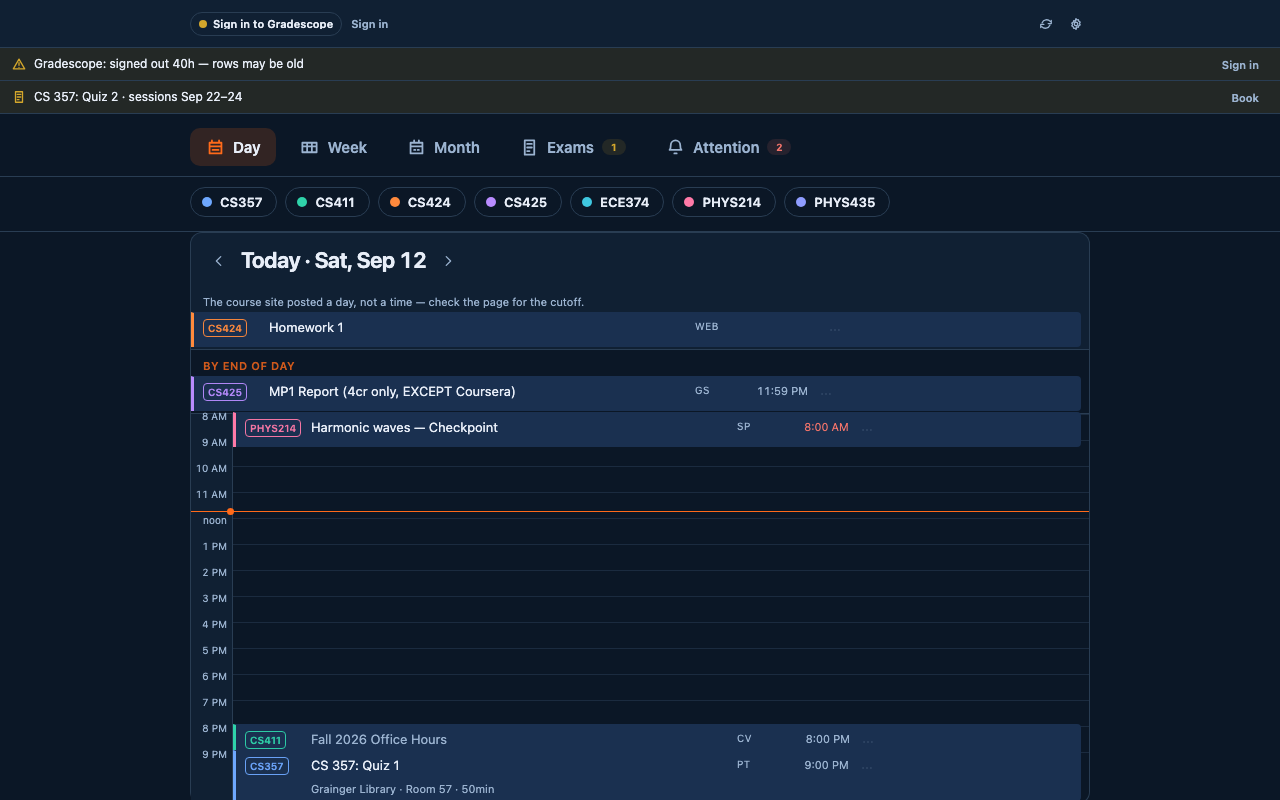
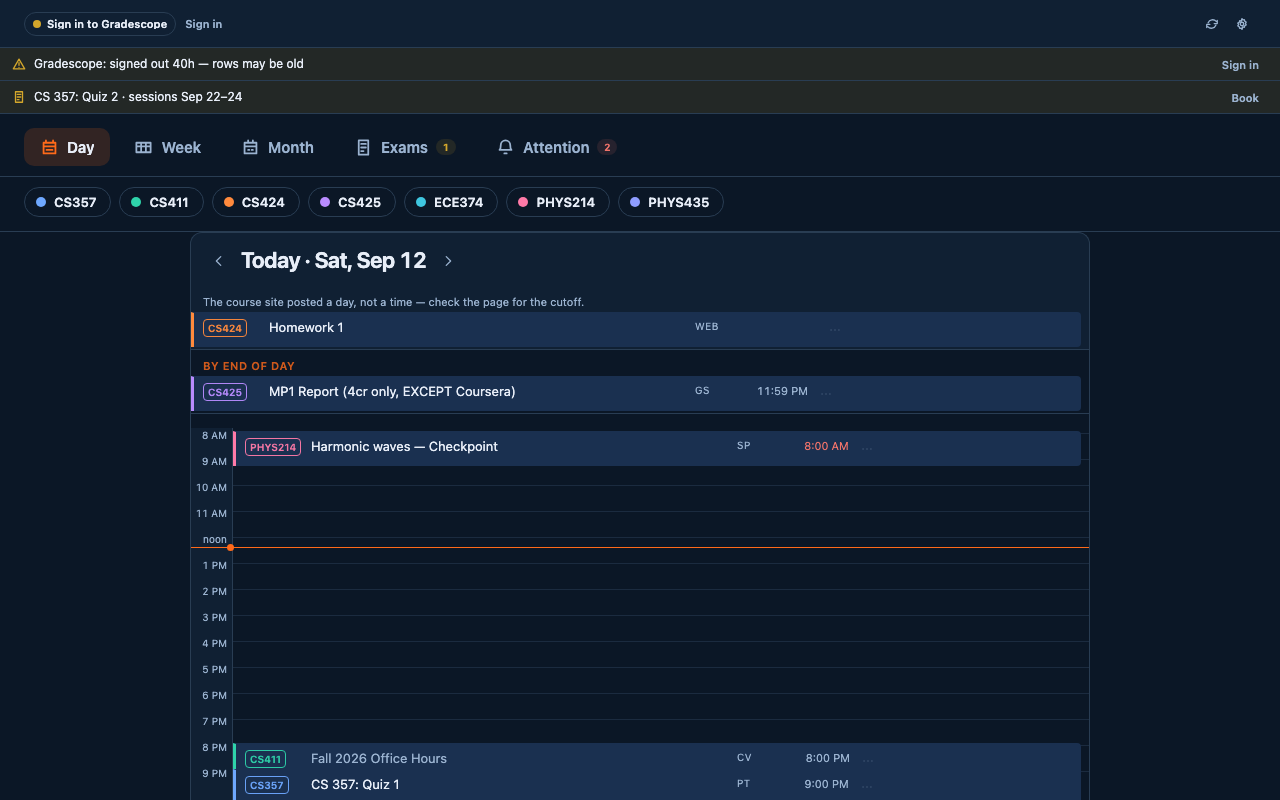
Give the hour axis room above it
"8 AM" was touching the 11:59 PM row above it. Measured: the end-of-day band
ended at y=411 and the grid started at y=414 — three pixels — while the first
hour label started at y=409, five pixels above the grid and two pixels inside
the last end-of-day row.

Every hour label is shifted up 5px so it straddles its own gridline, which is
what makes an axis read as an axis. The first label has no line above it to
straddle, so those 5px put it outside the grid entirely and on top of whatever
band was there. The grid takes 5px of top padding to hold it in, the gutter
takes an equal negative margin so its tint still reaches the grid's top edge
rather than starting a notch below it, and 14px of margin separates the two
blocks.

Gap 3 to 17px, label inside the grid, tint flush with the top edge — measured,
not eyeballed.

diff --git a/public/popup.css b/public/popup.css
@@ -406,9 +406,22 @@ h2.section {
 .band { border-bottom: 1px solid var(--line); background: var(--tint); }
 .band--note { font-size: 11px; color: var(--muted); padding: 6px 12px 2px; margin: 0; line-height: 1.35; }
 
-/* ---- day grid ---- */
-.grid { display: grid; grid-template-columns: 42px 1fr; }
-.grid--hours { border-right: 1px solid var(--line); }
+/* ---- day grid ----
+ *
+ * Every hour label is shifted up 5px so it straddles its own gridline, which is
+ * what makes an axis read as an axis. The first label has no line above it to
+ * straddle, so those 5px put it *outside* the grid entirely — sitting on top of
+ * whatever band is above. Measured: "8 AM" started 5px above the grid and 2px
+ * inside the last end-of-day row, so the 11:59 PM deadline and the start of the
+ * morning were touching.
+ *
+ * The grid takes 5px of top padding to hold the label in, and the gutter takes
+ * an equal negative margin so its tint still reaches the grid's top edge rather
+ * than starting a notch below it. The margin above is separation from the band,
+ * which had three pixels.
+ */
+.grid { display: grid; grid-template-columns: 42px 1fr; margin-top: 14px; padding-top: 5px; }
+.grid--hours { border-right: 1px solid var(--line); margin-top: -5px; padding-top: 5px; }
 .grid--hour {
   height: 26px; font-size: 10px; color: var(--muted); font-variant-numeric: tabular-nums;
   text-align: right; padding-right: 5px; transform: translateY(-5px);

diff --git a/PROGRESS.md b/PROGRESS.md
@@ -25,6 +25,22 @@ from here.**
   store assets. Five decisions for Sushi are listed in its §7.
 - Nothing in the extension changed. G4/G5 unchanged.
 
+## Live run: the hour axis had no room above it — 2026-09-12
+
+"8 AM" was touching the 11:59 PM row above it. Measured: the end-of-day band ended at
+y=411, the grid started at y=414 — three pixels — and the first hour label started at
+y=409, which is *five pixels above the grid* and two pixels inside the last end-of-day
+row.
+
+Every hour label is shifted up 5px so it straddles its own gridline, which is what makes
+an axis read as an axis. **The first label has no line above it to straddle**, so those
+5px put it outside the grid entirely, on top of whatever band is there. The grid takes
+5px of top padding to hold it in, the gutter takes an equal negative margin so its tint
+still reaches the grid's top edge, and a 14px margin separates the two blocks.
+
+Gap 3px → 17px, label inside the grid, tint flush with the top edge — all three measured
+rather than eyeballed.
+
 ## Live run: the month's vocabulary, and duplicate tabs — 2026-09-12
 
 - **The month showed finished work as if it were still owed.** The "is this done, late,
